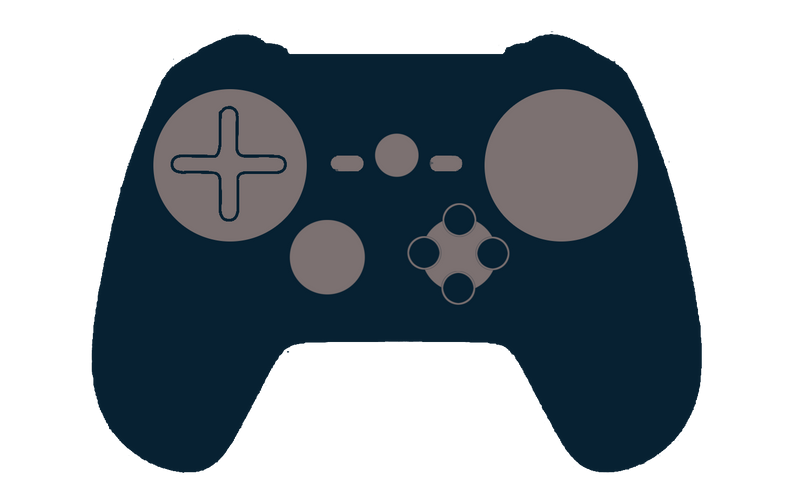
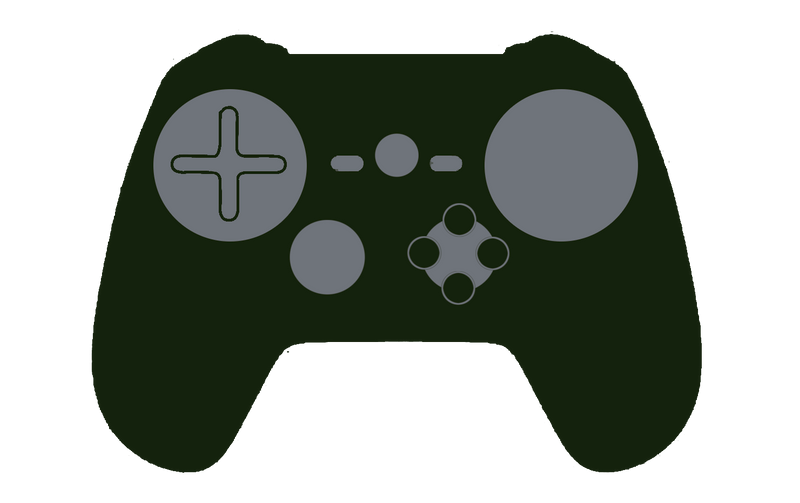
updated styles for 2026

diff --git a/styles.css b/styles.css
@@ -45,7 +45,7 @@ input {
   }
 }
 
-.main.withCols {
+.withCols {
   display: flex;
   flex-direction: row;
   min-width: 800px;
@@ -156,8 +156,8 @@ input {
   font-family: "Comfortaa", sans-serif;
   font-size: 18px;
   font-weight: 700;
-  background: #606086;
-  color: #e7f0ff;
+  background: #7aa33f;
+  color: #f9ffe7;
   padding: 15px;
   margin-right: 15px;
 }

diff --git a/index.php b/index.php
@@ -11,86 +11,88 @@
   </head>
   <body>
     <div class="header"><h2>The challenge so far</h2></div>
-    <div class="main withCols">
-      <div class="col1">
-        <div class="widgetContainer">
+    <div class="main">
+      <div class="widgetContainer">
           <?php 
             include("widgetCode.php");
           ?>
         </div>
-        <?php 
-          include("setup.php");
-          $year = date("Y");
-          $str = "SELECT * FROM `logs` WHERE YEAR(date) = $year ORDER BY `date` DESC;";
+      <div class="withCols">
+        <div class="col1">
+          <?php 
+            include("setup.php");
+            $year = date("Y");
+            $str = "SELECT * FROM `logs` WHERE YEAR(date) = $year ORDER BY `date` DESC;";
 
-          $entryresult = mysqli_query($con, $str);
-          if(!$entryresult){
-            $err = mysqli_error($con);
-            echo $err;
-            exit();
-          }
-          
-          $i = 0;
-          while ($entry = mysqli_fetch_assoc($entryresult)) {
-            $name = trim($entry["name"]);
-            $date = $entry["date"];
-            $datestr = date('F j', strtotime($date));
+            $entryresult = mysqli_query($con, $str);
+            if(!$entryresult){
+              $err = mysqli_error($con);
+              echo $err;
+              exit();
+            }
+            
+            $i = 0;
+            while ($entry = mysqli_fetch_assoc($entryresult)) {
+              $name = trim($entry["name"]);
+              $date = $entry["date"];
+              $datestr = date('F j', strtotime($date));
 
-            $imageFile = strtolower(str_replace(" ", "_", $name));
-            if (!file_exists("images/".$imageFile.".png")) {
-              $imageFile = "image".$i;
-              $i = ($i + 1) % 5;
-            }
-        ?>
-          <div class="game">
-            <a href="https://radinagames2020.tumblr.com/tagged/<?=$name?>"></a>
-            <img src="images/<?=$imageFile?>.png" />
-            <div class="info">
-              <time datetime="<?=$date?>"><?=$datestr?></time>
-              <div class="name"><?=$name?></div>
-            </div>
-          </div>
-        <?php } ?>
-      </div>
-      <div class="col2">
-        <?php 
-          // Upcoming games
-          $str = "SELECT * FROM `toplay` ORDER BY `status` DESC;";
-          $entryresult = mysqli_query($con, $str);
-          if(!$entryresult){
-            $err = mysqli_error($con);
-            echo $err;
-            exit();
-          }
-          $i = 0;
-          $lastStatus = -1;
-          while ($entry = mysqli_fetch_assoc($entryresult)) {
-            $name = trim($entry["name"]);
-            $status = $entry["status"];
-            if ($lastStatus != $status && $status == 1) {
-            ?>
-              <h3>Currently Playing</h3>
-            <?php
-            } elseif ($lastStatus != $status && $status == 0) {
-            ?>
-              <h3>To Play</h3>
-            <?php
-            }
-            $lastStatus = $status;
-            $imageFile = strtolower(str_replace(" ", "_", $name));
-            if (!file_exists("images/".$imageFile.".png")) {
-              $imageFile = "image".$i;
-              $i = ($i + 1) % 5;
-            }
+              $imageFile = strtolower(str_replace(" ", "_", $name));
+              if (!file_exists("images/".$imageFile.".png")) {
+                $imageFile = "image".$i;
+                $i = ($i + 1) % 5;
+              }
           ?>
-            <div class="game nolink">
+            <div class="game">
+              <a href="https://radinagames2020.tumblr.com/tagged/<?=$name?>"></a>
               <img src="images/<?=$imageFile?>.png" />
               <div class="info">
+                <time datetime="<?=$date?>"><?=$datestr?></time>
                 <div class="name"><?=$name?></div>
               </div>
             </div>
-        <?php
-          } ?>
+          <?php } ?>
+        </div>
+        <div class="col2">
+          <?php 
+            // Upcoming games
+            $str = "SELECT * FROM `toplay` ORDER BY `status` DESC;";
+            $entryresult = mysqli_query($con, $str);
+            if(!$entryresult){
+              $err = mysqli_error($con);
+              echo $err;
+              exit();
+            }
+            $i = 0;
+            $lastStatus = -1;
+            while ($entry = mysqli_fetch_assoc($entryresult)) {
+              $name = trim($entry["name"]);
+              $status = $entry["status"];
+              if ($lastStatus != $status && $status == 1) {
+              ?>
+                <h3>Currently Playing</h3>
+              <?php
+              } elseif ($lastStatus != $status && $status == 0) {
+              ?>
+                <h3>To Play (perhaps) (also see <a href="https://store.steampowered.com/wishlist/id/apdoyle/">here</a>)</h3>
+              <?php
+              }
+              $lastStatus = $status;
+              $imageFile = strtolower(str_replace(" ", "_", $name));
+              if (!file_exists("images/".$imageFile.".png")) {
+                $imageFile = "image".$i;
+                $i = ($i + 1) % 5;
+              }
+            ?>
+              <div class="game nolink">
+                <img src="images/<?=$imageFile?>.png" />
+                <div class="info">
+                  <div class="name"><?=$name?></div>
+                </div>
+              </div>
+          <?php
+            } ?>
+        </div>
       </div>
     </div>
   </body>
